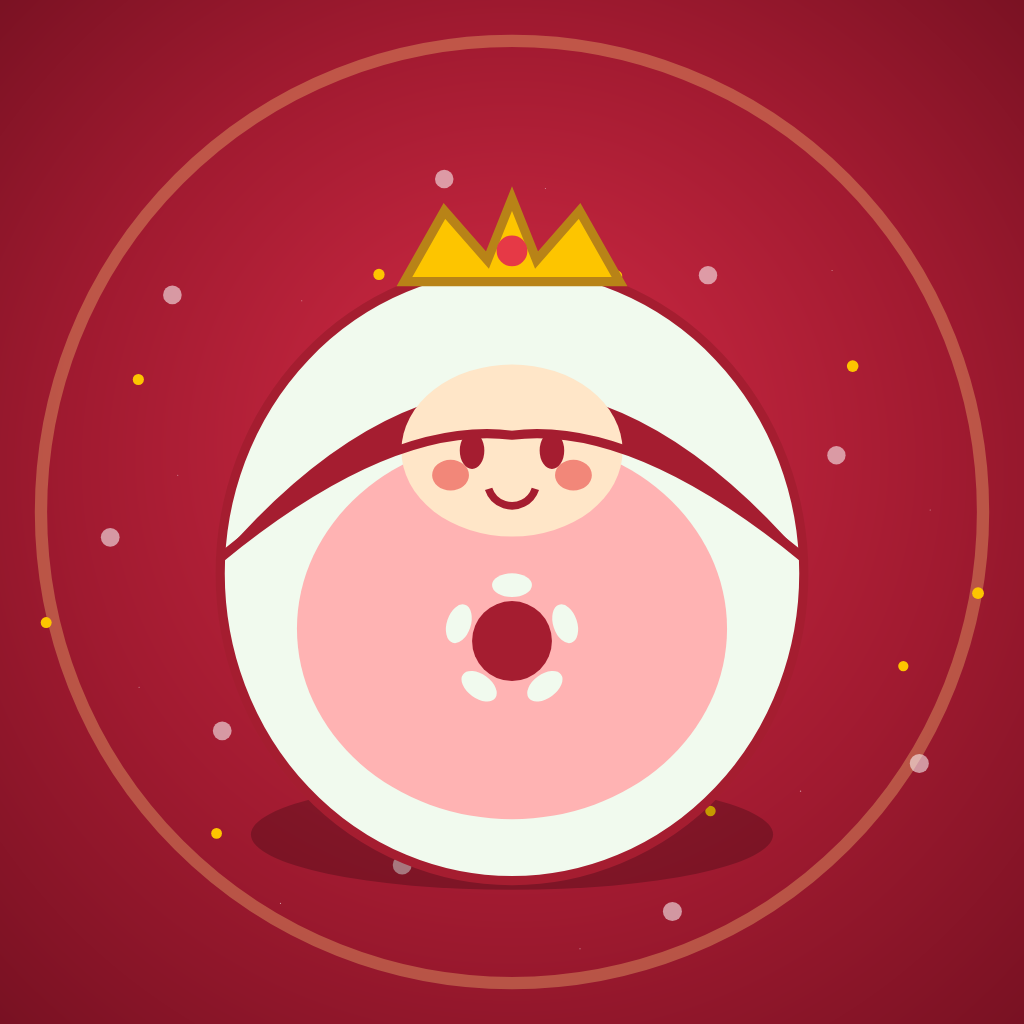
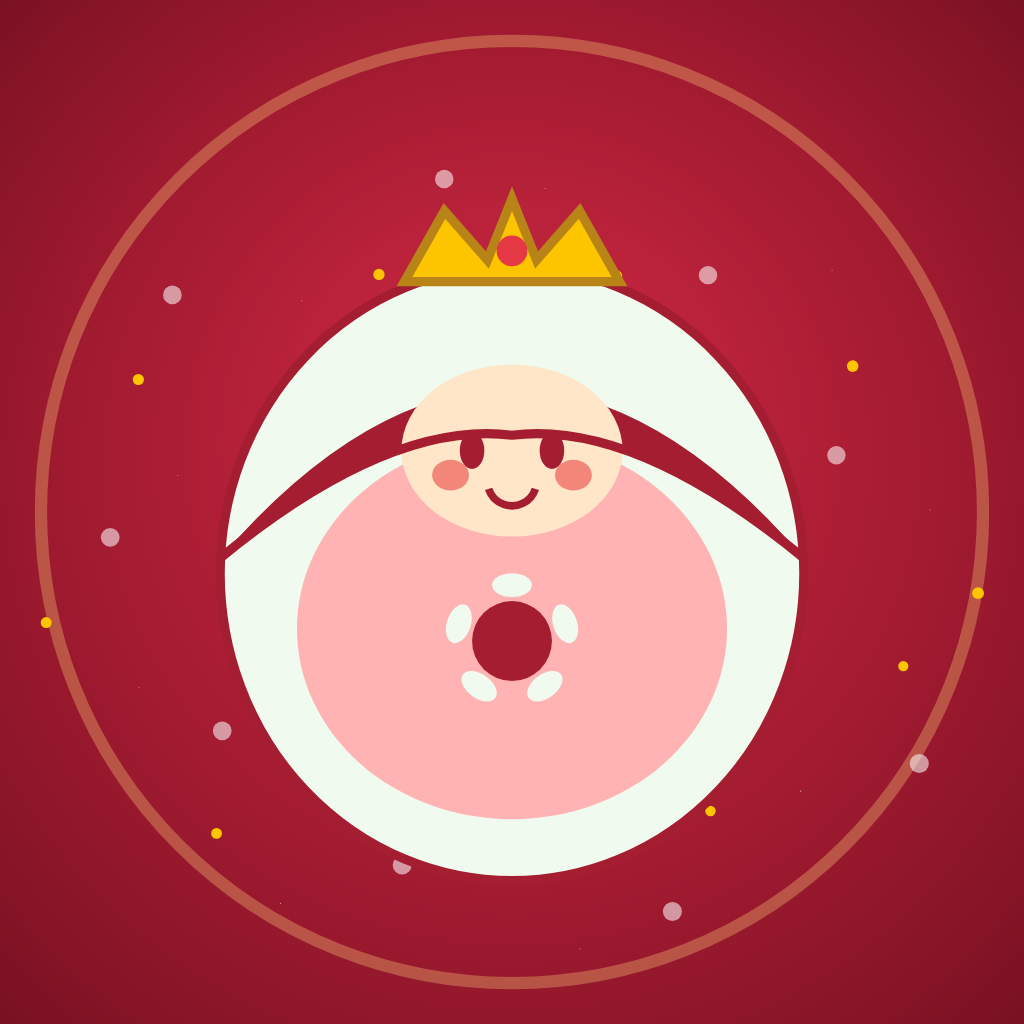
remove the under-doll drop shadow
The dark ellipse drawn below each doll looked OK for a single doll on a
canvas but created a band of overlapping shadows when dolls stacked up,
reading as visual noise. Removed from:
- index.html drawMatryoshka (in-game render — applies to game canvas,
  next-pill preview, mascot, FTUE demos, share card)
- assets/logo.html drawMatryoshka (logo previewer)
- assets/render-logo.js drawMatryoshka (PNG generator)

PNG avatars regenerated so the bot avatar stays in sync with in-game art.

Changed region(s): [[0.25, 0.7812, 0.75, 0.875]]

diff --git a/assets/logo.html b/assets/logo.html
@@ -139,9 +139,6 @@ function drawMatryoshka(c, x, y, r, tier, angle, scale) {
   c.rotate(angle || 0);
   if (scale) c.scale(scale, scale);
 
-  c.fillStyle = 'rgba(0,0,0,0.22)';
-  c.beginPath(); c.ellipse(0, r*0.85, r*0.85, r*0.18, 0, 0, Math.PI*2); c.fill();
-
   c.fillStyle = pal.body;
   c.beginPath(); c.ellipse(0, 0, r*0.95, r, 0, 0, Math.PI*2); c.fill();
 

diff --git a/assets/render-logo.js b/assets/render-logo.js
@@ -35,9 +35,6 @@ function drawMatryoshka(c, x, y, r) {
   c.save();
   c.translate(x, y);
 
-  c.fillStyle = 'rgba(0,0,0,0.22)';
-  c.beginPath(); c.ellipse(0, r*0.85, r*0.85, r*0.18, 0, 0, Math.PI*2); c.fill();
-
   c.fillStyle = pal.body;
   c.beginPath(); c.ellipse(0, 0, r*0.95, r, 0, 0, Math.PI*2); c.fill();
 